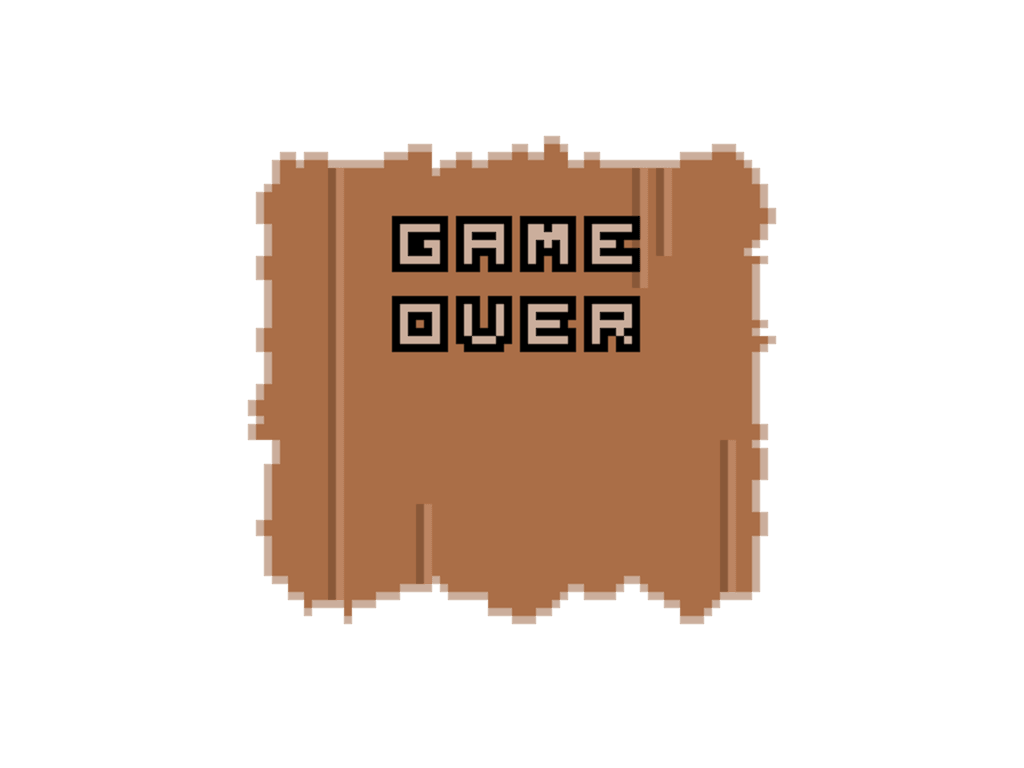
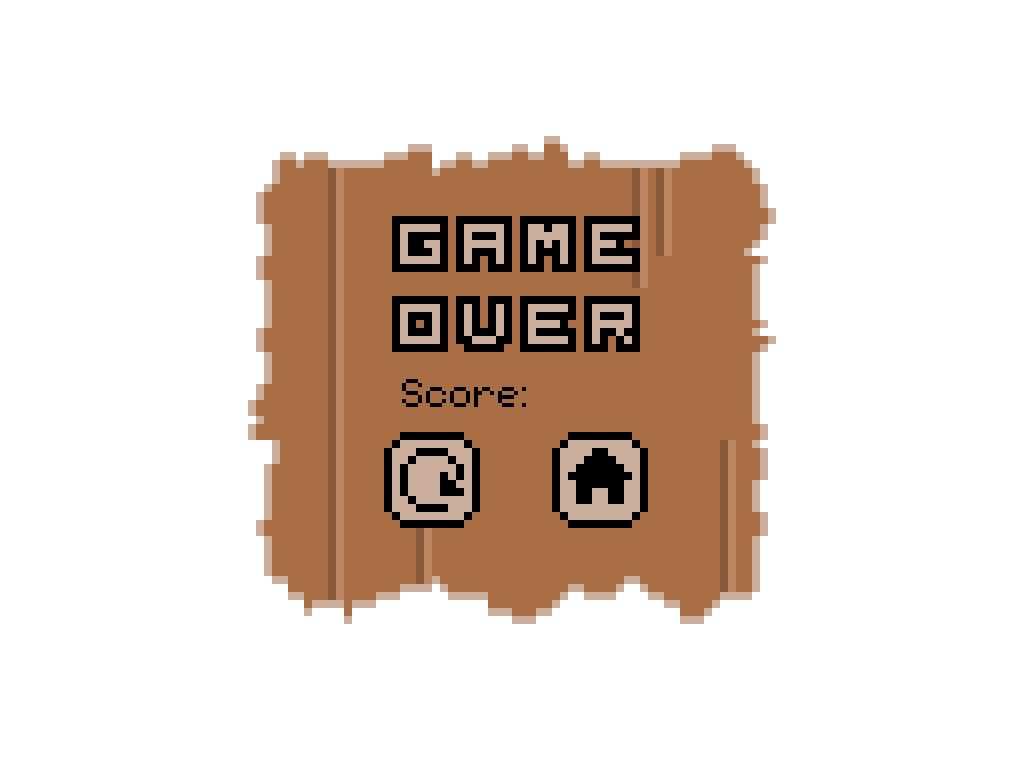
home and game over screen

diff --git a/Main.java b/Main.java
@@ -31,7 +31,7 @@ public class Main extends JPanel implements KeyListener, MouseListener{
     public static final int WIDTH = 1024;
     public static final int HEIGHT = 768;
     public static final int FPS = 60;
-    public boolean play;
+    private static JFrame frame;
     private BufferedImage startScreen;
     World world;
     // =====================================================================
@@ -50,7 +50,7 @@ public class Main extends JPanel implements KeyListener, MouseListener{
                 if((world.player.lives > 0) && (play == true)) {
                     world.updateWorld(1.0/FPS);
                 }
-                else if(world.player.lives == 0.0) {
+                if(world.player.lives == 0.0) {
                     world.status = true;
                 }
                 repaint();
@@ -139,8 +139,21 @@ public class Main extends JPanel implements KeyListener, MouseListener{
 
 
     // =====================================================================
+    boolean play;
+    boolean home = true;
     public void mousePressed(MouseEvent e) { 
-        if(((e.getX() > 370) && (e.getX() < 647)) && ((e.getY() > 432) && (e.getY() < 535))) {
+        if((world.status == true) && (((e.getX() > 390) && (e.getX() < 470)) && ((e.getY() > 435) && (e.getY() < 525)))) {
+            world.status = false;
+            play = true;
+            world = new World(WIDTH, HEIGHT);
+        }
+        else if((world.status == true) && (((e.getX() > 555) && (e.getX() < 645)) && ((e.getY() > 435) && (e.getY() < 525)))) {
+            world.status = false;
+            play = false;
+            world = new World(WIDTH, HEIGHT);
+            home = true;
+        }
+        else if(((e.getX() > 370) && (e.getX() < 647)) && ((e.getY() > 432) && (e.getY() < 535))) {
             play = true;
         }
     }
@@ -204,7 +217,7 @@ public class Main extends JPanel implements KeyListener, MouseListener{
 
     // =====================================================================
     public static void main(String[] args) {
-        JFrame frame = new JFrame("Milton Escapes");
+        frame = new JFrame("Milton Escapes");
         frame.setDefaultCloseOperation(JFrame.EXIT_ON_CLOSE);
 
         Main mainInstance = new Main();
@@ -212,6 +225,7 @@ public class Main extends JPanel implements KeyListener, MouseListener{
 
         frame.pack();
         frame.setVisible(true);
+
     } // main()
     // =====================================================================
 
@@ -231,7 +245,9 @@ public class Main extends JPanel implements KeyListener, MouseListener{
             System.out.println("Failed to find image.");
         } 
         
-        g.drawImage(startScreen, 0, 0, null);
+        if(home) {
+            g.drawImage(startScreen, 0, 0, null);
+        }
 
         if(play) {
             world.drawWorld(g); 

diff --git a/World.java b/World.java
@@ -46,6 +46,13 @@ public class World{
         firstRoom = new Room(RNG); //temporary to test just one room
         currentRoom = firstRoom;
 
+        try {
+            gameOver = ImageIO.read(new File("game-over.png"));
+        }
+        catch (IOException ex) {
+            System.out.println("Failed to find image.");
+        }
+
     } // World()
     // =====================================================================
 
@@ -56,7 +63,6 @@ public class World{
         //map.draw(g);
         if(status) {
             g.drawImage(gameOver, 0, 0, null);
-            System.out.println("bruh");
         }
 
         else {

diff --git a/Cat.java b/Cat.java
@@ -313,6 +313,9 @@ public class Cat{
     } // state()
     // =====================================================================
 
+
+
+    
     public void attackState(double time){
         attackStateCD = time;
         attackState = false;   
